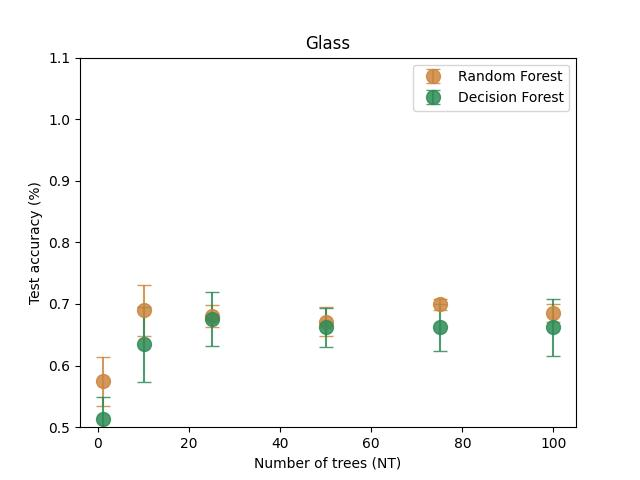
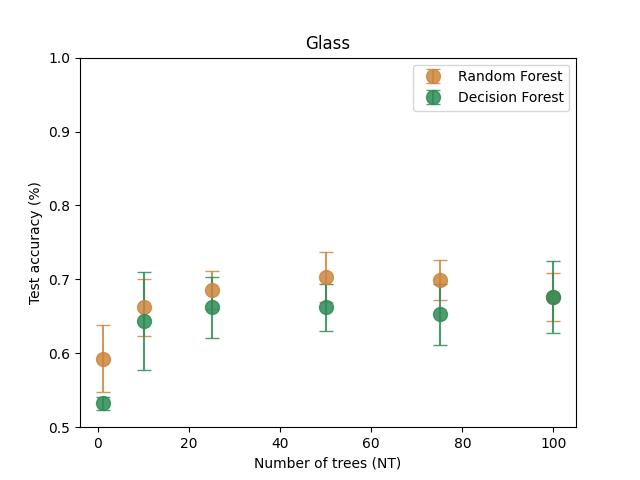
all figures and last update for analysis.py

diff --git a/src/analysis.py b/src/analysis.py
@@ -1,5 +1,179 @@
+"""
+This module contains functions to plot and analyze the results related
+to random forests and decision forests.
+"""
+from typing import Optional
+from pathlib import Path
+import ast
 import numpy as np
 import pandas as pd
+import matplotlib.pyplot as plt
 
 
-df = pd.read_csv('')
+CURRENT_PATH = Path(__file__).parent.parent
+
+
+def plot_accuracy_vs_n_trees(df: pd.DataFrame,
+                             title: Optional[str] = None):
+    """
+    Plot test accuracy vs. the number of trees for random forest
+    and decision forest models results.
+
+    """
+
+    sel_col = ['algorithm', 'n_trees', 'test_acc']
+    df_groupby = df[sel_col].groupby(['n_trees', 'algorithm']). \
+        agg(['mean', 'std']).reset_index()
+    random_forest_df = df_groupby[df_groupby.algorithm == 'random forest']
+    decision_forest_df = df_groupby[df_groupby.algorithm == 'decision forest']
+
+    fig = plt.figure()
+    plt.title(title)
+    plt.errorbar(x=random_forest_df.n_trees,
+                 y=random_forest_df['test_acc']['mean'],
+                 yerr=random_forest_df['test_acc']['std'], fmt='o',
+                 capsize=5, alpha=.85, color='peru',
+                 markersize=10, label='Random Forest')
+    plt.errorbar(x=decision_forest_df.n_trees,
+                 y=decision_forest_df['test_acc']['mean'],
+                 yerr=decision_forest_df['test_acc']['std'], fmt='o',
+                 capsize=5, alpha=.85,
+                 color='seagreen',
+                 markersize=10, label='Decision Forest')
+    plt.ylim(0.5, 1.0)
+    plt.ylabel('Test accuracy (%)')
+    plt.xlabel('Number of trees (NT)')
+    plt.legend()
+
+    return fig
+
+
+def plot_F_vs_test_accuracy(df: pd.DataFrame,
+                            title: Optional[str] = None):
+    """
+    Plots test accuracy vs. the number of random features (F) for
+    random forest and decision forest models results.
+
+    """
+
+    sel_col = ['algorithm', 'F', 'test_acc']
+    df_groupby = df[sel_col].groupby(['algorithm', 'F']). \
+        agg(['mean', 'std']).reset_index()
+    random_forest_df = df_groupby[df_groupby.algorithm == 'random forest']
+    decision_forest_df = df_groupby[df_groupby.algorithm == 'decision forest']
+    x_rf = [el if len(el) <= 4 else el.split('.')[1] for el in
+            random_forest_df.F]
+    x_df = [el if len(el) <= 4 else el.split('.')[1] for el in
+            decision_forest_df.F]
+
+    fig, axs = plt.subplots(1, 2, figsize=(8, 4))
+    plt.suptitle(title)
+    axs = axs.flatten()
+    axs[0].errorbar(x=x_rf,
+                    y=random_forest_df['test_acc']['mean'],
+                    yerr=random_forest_df['test_acc']['std'], fmt='s',
+                    capsize=5, alpha=.85, color='peru',
+                    markersize=10, label='Random Forest')
+    axs[0].set_ylim(0.5, 1.0)
+    axs[0].set_ylabel('Test accuracy (%)')
+    axs[0].set_xlabel('F (Number of random features)')
+    axs[0].legend()
+    axs[1].errorbar(x=x_df,
+                    y=decision_forest_df['test_acc']['mean'],
+                    yerr=decision_forest_df['test_acc']['std'], fmt='s',
+                    capsize=5, alpha=.85,
+                    color='seagreen',
+                    markersize=10, label='Decision Forest')
+    axs[1].set_ylim(0.5, 1.0)
+    axs[1].set_xlabel('F (Number of random features)')
+    axs[1].legend()
+
+    return fig
+
+
+def feature_importance_mean(df: pd.DataFrame, columns_name: list) -> dict:
+    """
+    Calculates the mean feature importance across all decision trees
+    in a random forest or decision forest model results.
+
+    """
+
+    n = df.shape[0]
+    d = {key: 0 for key in columns_name}
+
+    for row in df.feature_importance:
+        for elem in ast.literal_eval(row):
+            d[elem[0]] += elem[1]
+    d = {key: value / n for key, value in d.items()}
+    assert (np.array(list(d.values())).sum().round(3)) == 1.0
+    return d
+
+
+def plot_feature_importance(df: pd.DataFrame,
+                            columns_name: list,
+                            title: Optional[str] = None):
+    """
+    Plots the mean feature importance for a random forest and decision forest
+    models results.
+
+    """
+
+    df1 = df[df.algorithm == 'random forest']
+    df2 = df[df.algorithm == 'decision forest']
+
+    d1 = feature_importance_mean(df1, columns_name)
+    d2 = feature_importance_mean(df2, columns_name)
+
+    fig, axs = plt.subplots(1, 2, figsize=(12, 5))
+    plt.suptitle(title)
+    axs = axs.flatten()
+    axs[0].bar(x=list(d1.keys()), height=list(d1.values()),
+               color=df1.shape[0] * ['lavender'], edgecolor='k', alpha=0.7,
+               label='Random forest')
+    axs[0].set_xlabel('Features')
+    axs[0].set_ylabel('Feature importance (normalize)')
+    axs[0].set_xticklabels(list(d1.keys()), rotation=90)
+    axs[0].legend()
+
+    axs[1].bar(x=list(d2.keys()), height=list(d2.values()),
+               color=df2.shape[0] * ['papayawhip'], edgecolor='k', alpha=0.7,
+               label='Decision forest')
+    axs[1].set_xlabel('Features')
+    axs[1].set_xticklabels(list(d2.keys()), rotation=90)
+    axs[1].legend()
+    plt.tight_layout()
+
+    return fig
+
+
+def main():
+    """
+    Runs the main script for generating and saving visualizations and
+    statistics for a set of results datasets.
+
+    """
+
+    names = ['titanic', 'iris', 'glass', 'wine-red', 'wine-white']
+    for name in names:
+        path_results = CURRENT_PATH / 'data/processed'
+        path_raw = CURRENT_PATH / 'data/raw'
+        df_raw = pd.read_csv(path_raw / f'{name}.csv', index_col=0)
+        df_results = pd.read_csv(path_results / f'{name}_results.csv',
+                                 index_col=0)
+        columns_name = df_raw.columns[:-1].tolist()
+        stats = f'{name}, train_acc: ' \
+                f'{df_results.train_acc.mean():.3f}+-{df_results.train_acc.std():.3f}, ' \
+                f'test_acc:{df_results.test_acc.mean():.3f} +- {df_results.test_acc.std():.3f}'
+        print(stats)
+        fig1 = plot_accuracy_vs_n_trees(df_results, name.capitalize())
+        fig2 = plot_F_vs_test_accuracy(df_results, name.capitalize())
+        fig3 = plot_feature_importance(df_results, columns_name,
+                                       name.capitalize())
+
+        figures = [fig1, fig2, fig3]
+        for i, fig in enumerate(figures):
+            fig.savefig(CURRENT_PATH / f'docs/figures/{name}_{i + 1}.jpg')
+
+
+if __name__ == "__main__":
+    main()
